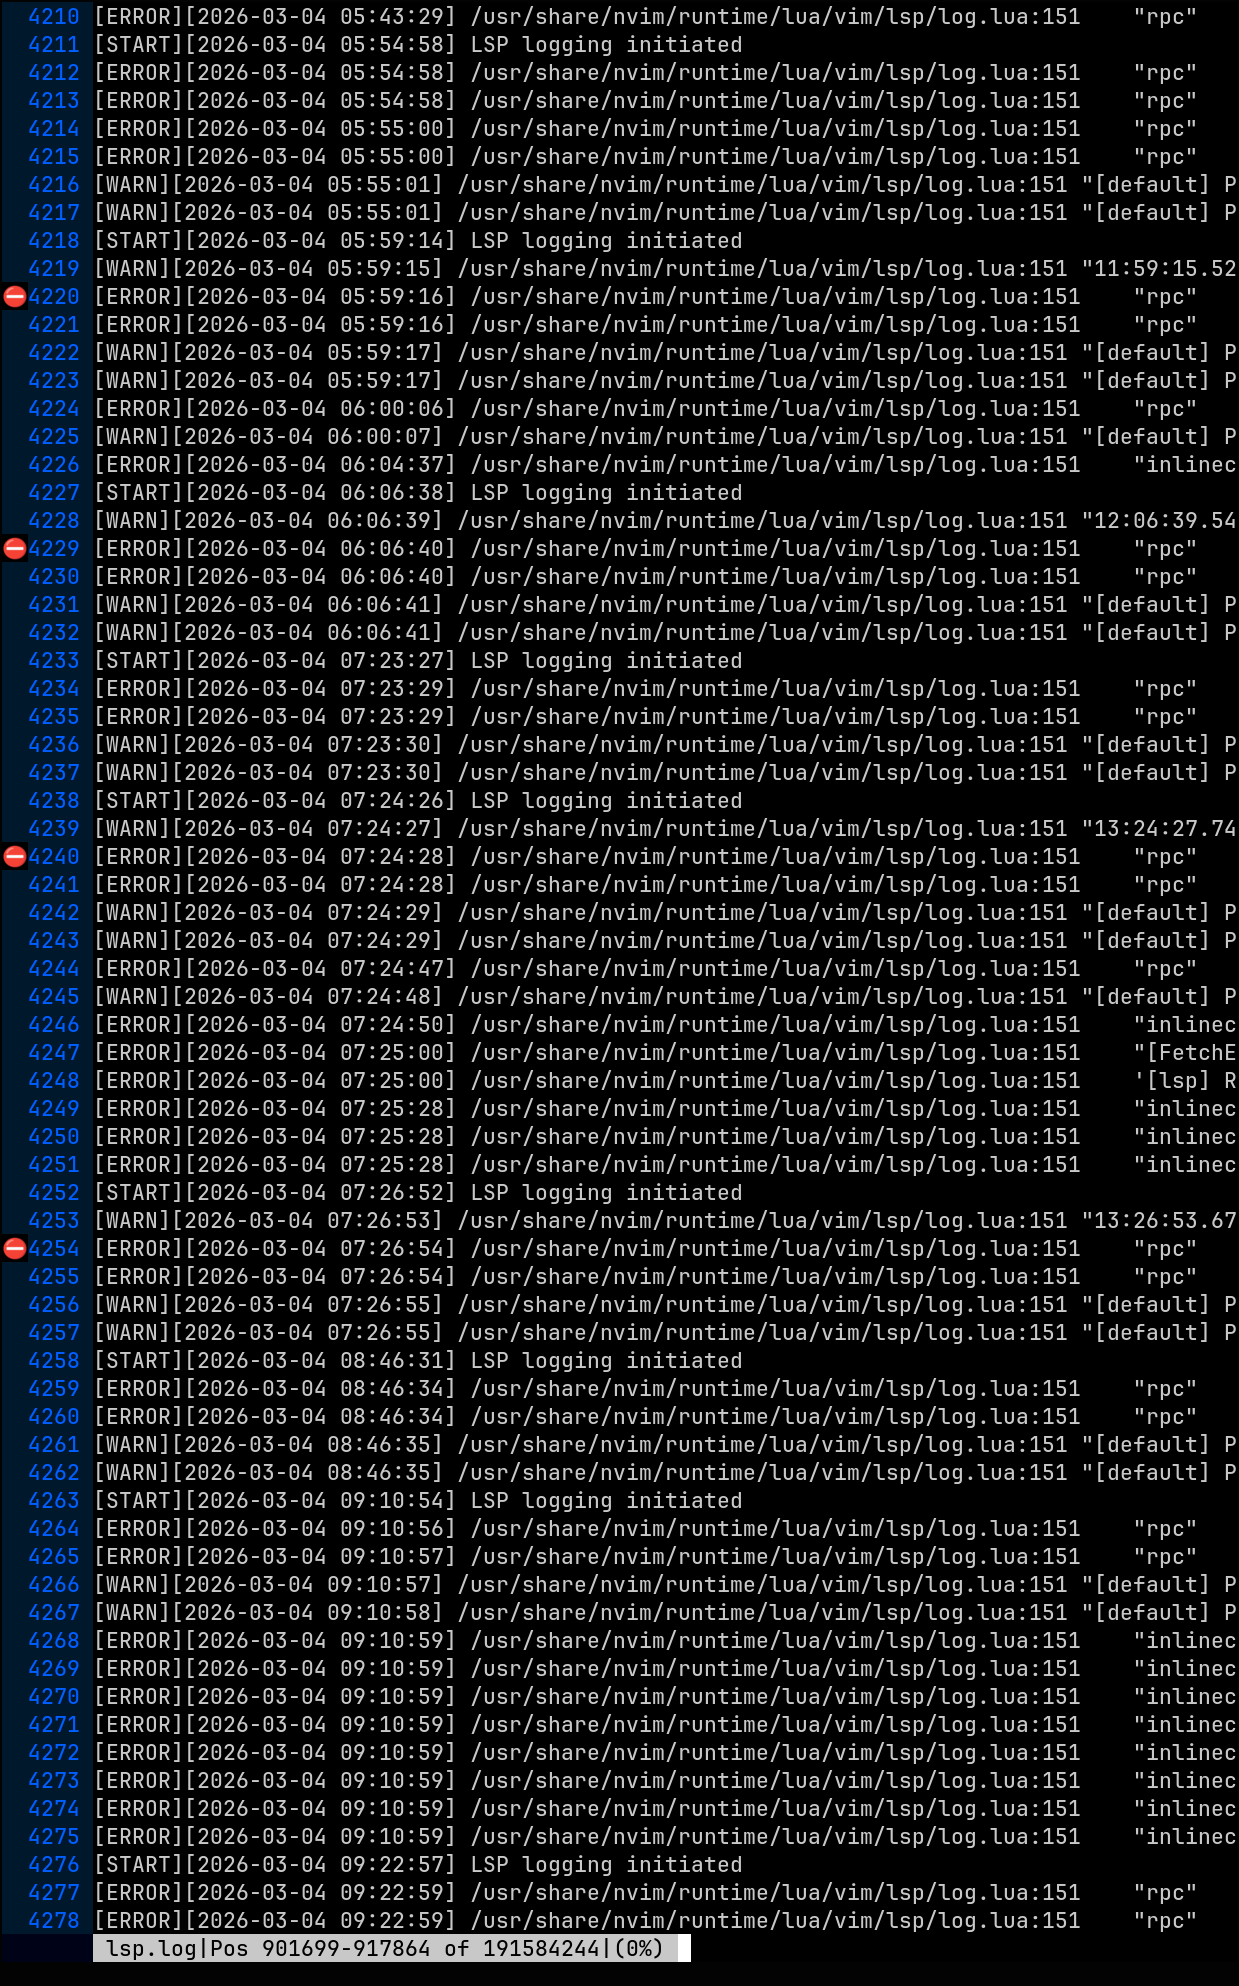
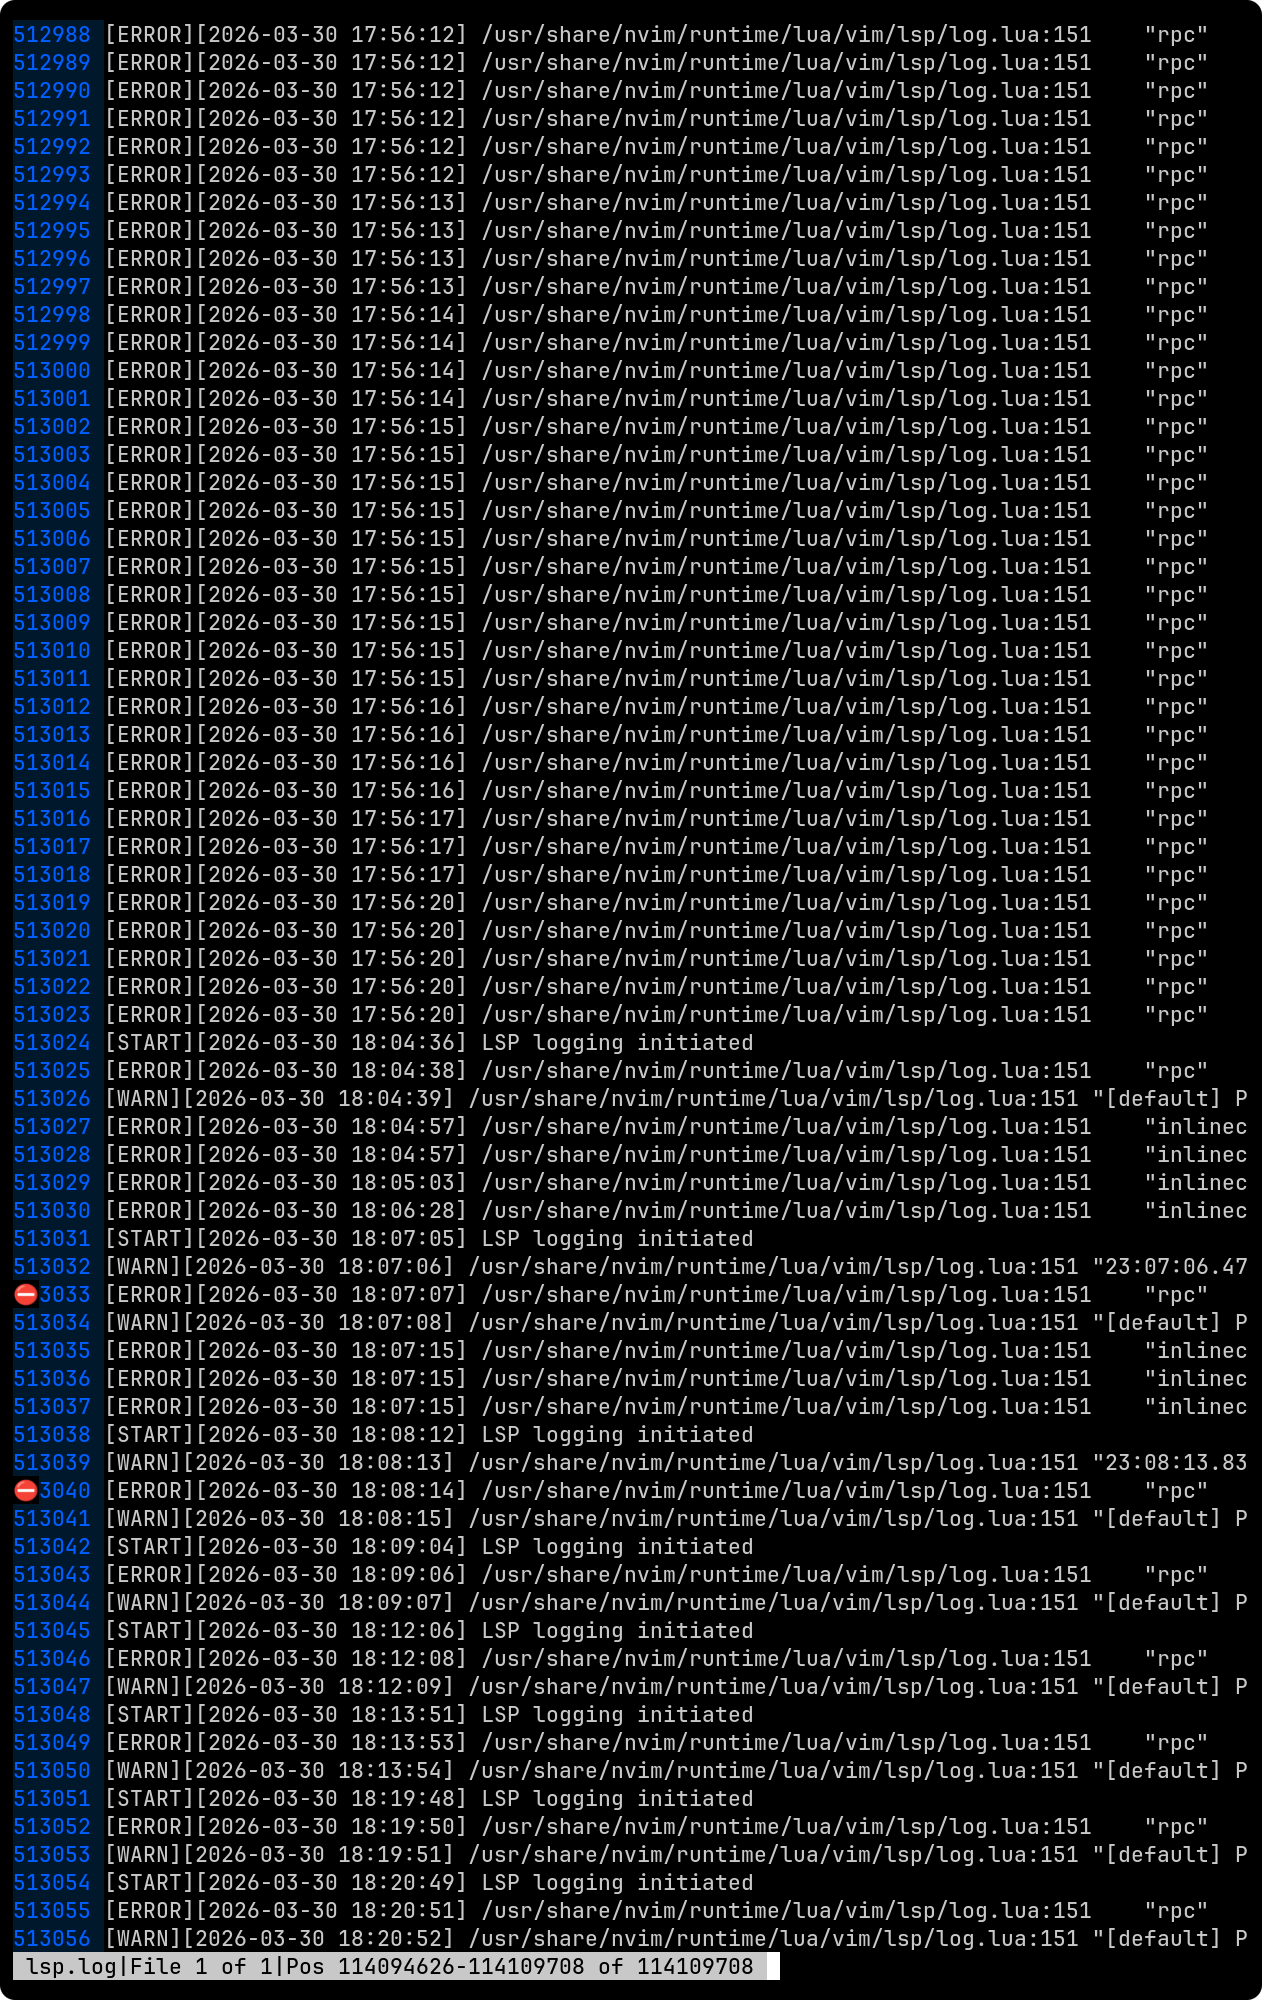
More clean-up and documentation updates.

diff --git a/src/sig.c b/src/sig.c
@@ -117,7 +117,7 @@ void signal_handler(int sig_num) {
         symbols = backtrace_symbols(addrlist, frames);
         if (symbols == nullptr) {
             abend(-1, "backtrace_symbols failed");
-            _exit(EXIT_FAILURE);
+            exit(EXIT_FAILURE);
         }
         for (int i = 0; i < frames; i++) {
             char buf[256];
@@ -131,7 +131,7 @@ void signal_handler(int sig_num) {
         sa.sa_flags = 0;
         sigaction(SIGSEGV, &sa, NULL);
         kill(getpid(), SIGSEGV); // Re-raise the signal
-        _exit(EXIT_FAILURE);
+        exit(EXIT_FAILURE);
     case SIGUSR1:
         sig_received = SIGUSR1;
         break;

diff --git a/src/whence.c b/src/whence.c
@@ -114,6 +114,8 @@ int main(int argc, char **argv) {
 /** @brief Find the full path of a file in the directories specified by the PATH
    environment variable
     @param file_spec_p The file specification to search for
+    @param flags Flags to control the behavior of the search (e.g., verbose
+   mode, list all matches)
     @note This function takes a file specification, extracts the directory and
    file name components, and searches through the directories specified in the
    PATH environment variable to find matches. It prints the full path of each

diff --git a/src/mem.c b/src/mem.c
@@ -296,11 +296,6 @@ Form *destroy_form(Init *init) {
 /** @brief Create and initialize View structure
     @ingroup mem
     @param init structure
-    @param argc - number of arguments in argv
-    @param argv - Arguments may have been provided by command line,
-                    ~/.minitrc,
-                    environment variables, or
-                    calling program interal to C-Menu
  */
 View *new_view(Init *init) {
     init->view_cnt++;

diff --git a/src/enterstr.c b/src/enterstr.c
@@ -56,5 +56,5 @@ int main(int argc, char **argv) {
         write(1, in_ptr++, 1);
     sig_dfl_mode();
     restore_shell_tioctl();
-    _exit(0);
+    exit(0);
 }

diff --git a/README.md b/README.md
@@ -46,6 +46,8 @@
 
 ### C-Menu Introduction
 
+C-Menu-0.2.9 - 2026-03-30
+
 C-Menu is a Terminal based User Interface (TUI) toolkit you can use to quickly and easily create powerful and visually appealing applications. With C-Menu you can design and implement menus, forms, and pickers that improve the user experience and make your product shine.
 
 C-Menu doesn't waste time rendering complex graphics. It's a real TUI. No fluff, no bloat, no distractions. Just sleek, powerful and fast. And, user interaction with C-Menu is natural and intuitive. On modern hardware, C-Menu is so fast and responsive you might even forget your fingers are moving as you watch your thoughts flow effortlessly onto the screen. As a bonus, C-Menu integrates powerful tools like Tree-sitter to boost perceptual efficiency, comprehension, and retention through the intelligent use of color. Want more? The C-Menu API provides documentation and auto-completion in the Neovim editor.
@@ -71,6 +73,16 @@ file, by using the -N option on the command line, or typing "-n" while in view.
 ### Large Log File in View
 
 ![View Large Log File](screenshots/new_view2.png)
+
+Even though this lsp.log is 109Mb, it loaded instantly and traversed from
+beginning to end in a few milliseconds. View's demand paged virtual memory
+access is a game changer for working with large text files. You can open and
+navigate through multi-gigabyte log files without any lag, making it an
+invaluable tool for system administrators and developers who need to analyze
+large logs efficiently. You can already see that auto-resizing the line number
+window will be necessary to accommodate files with 1 million or more lines. When
+it goes over 1 million lines, the line numbers will but up next to the text,
+and that will be a problem. I'll get to it eventually. In the meantime, if you're working with files that large, you probably have a good idea of how to solve that problem.
 
 ### **_New API Integration With Neovim_**
 
